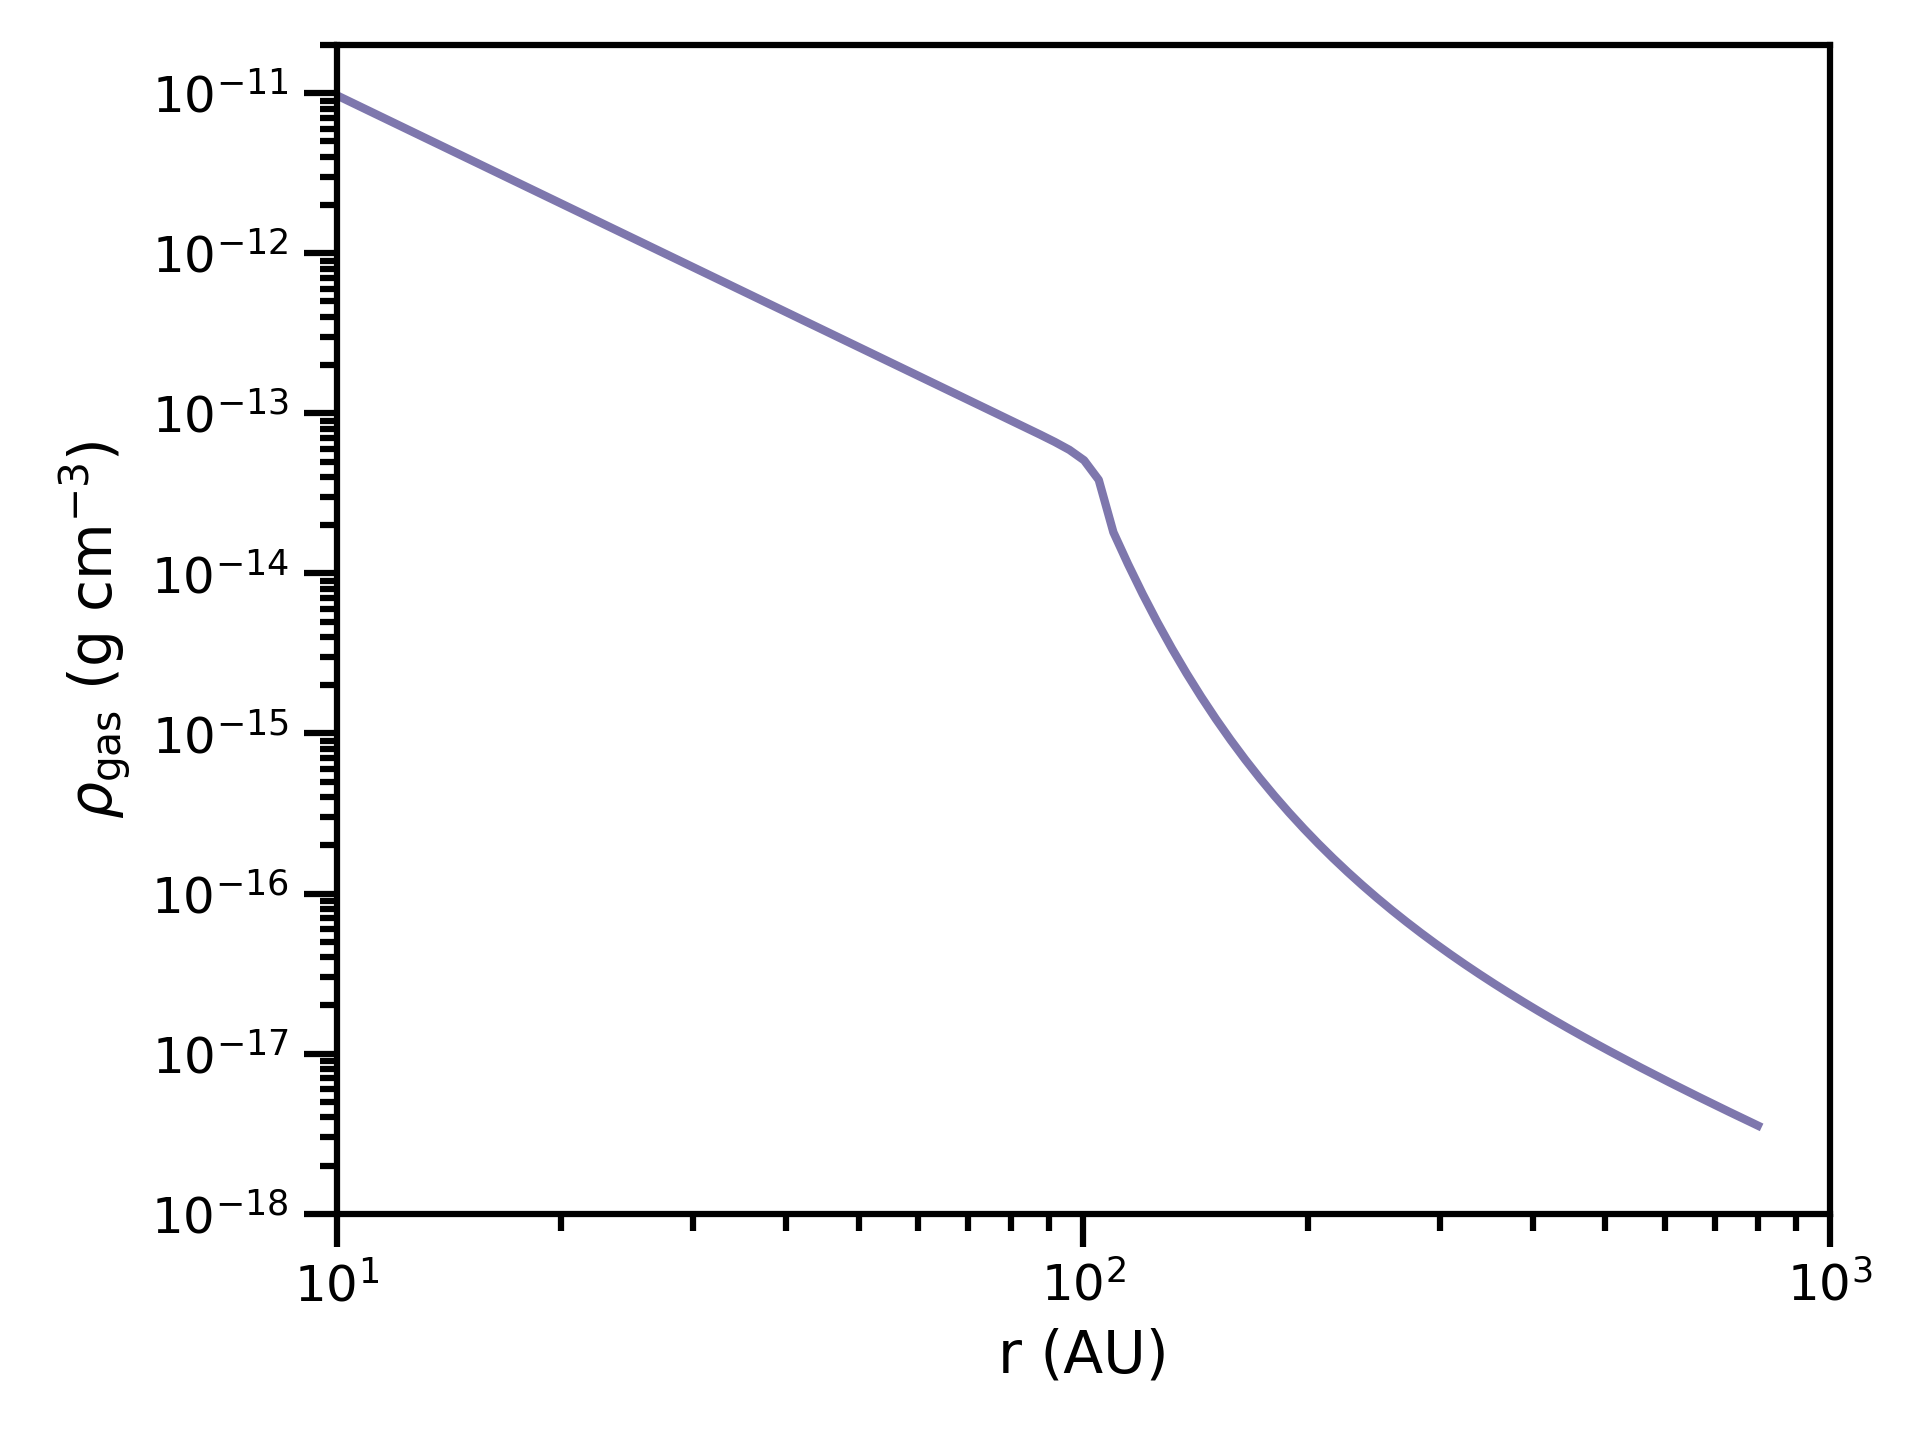
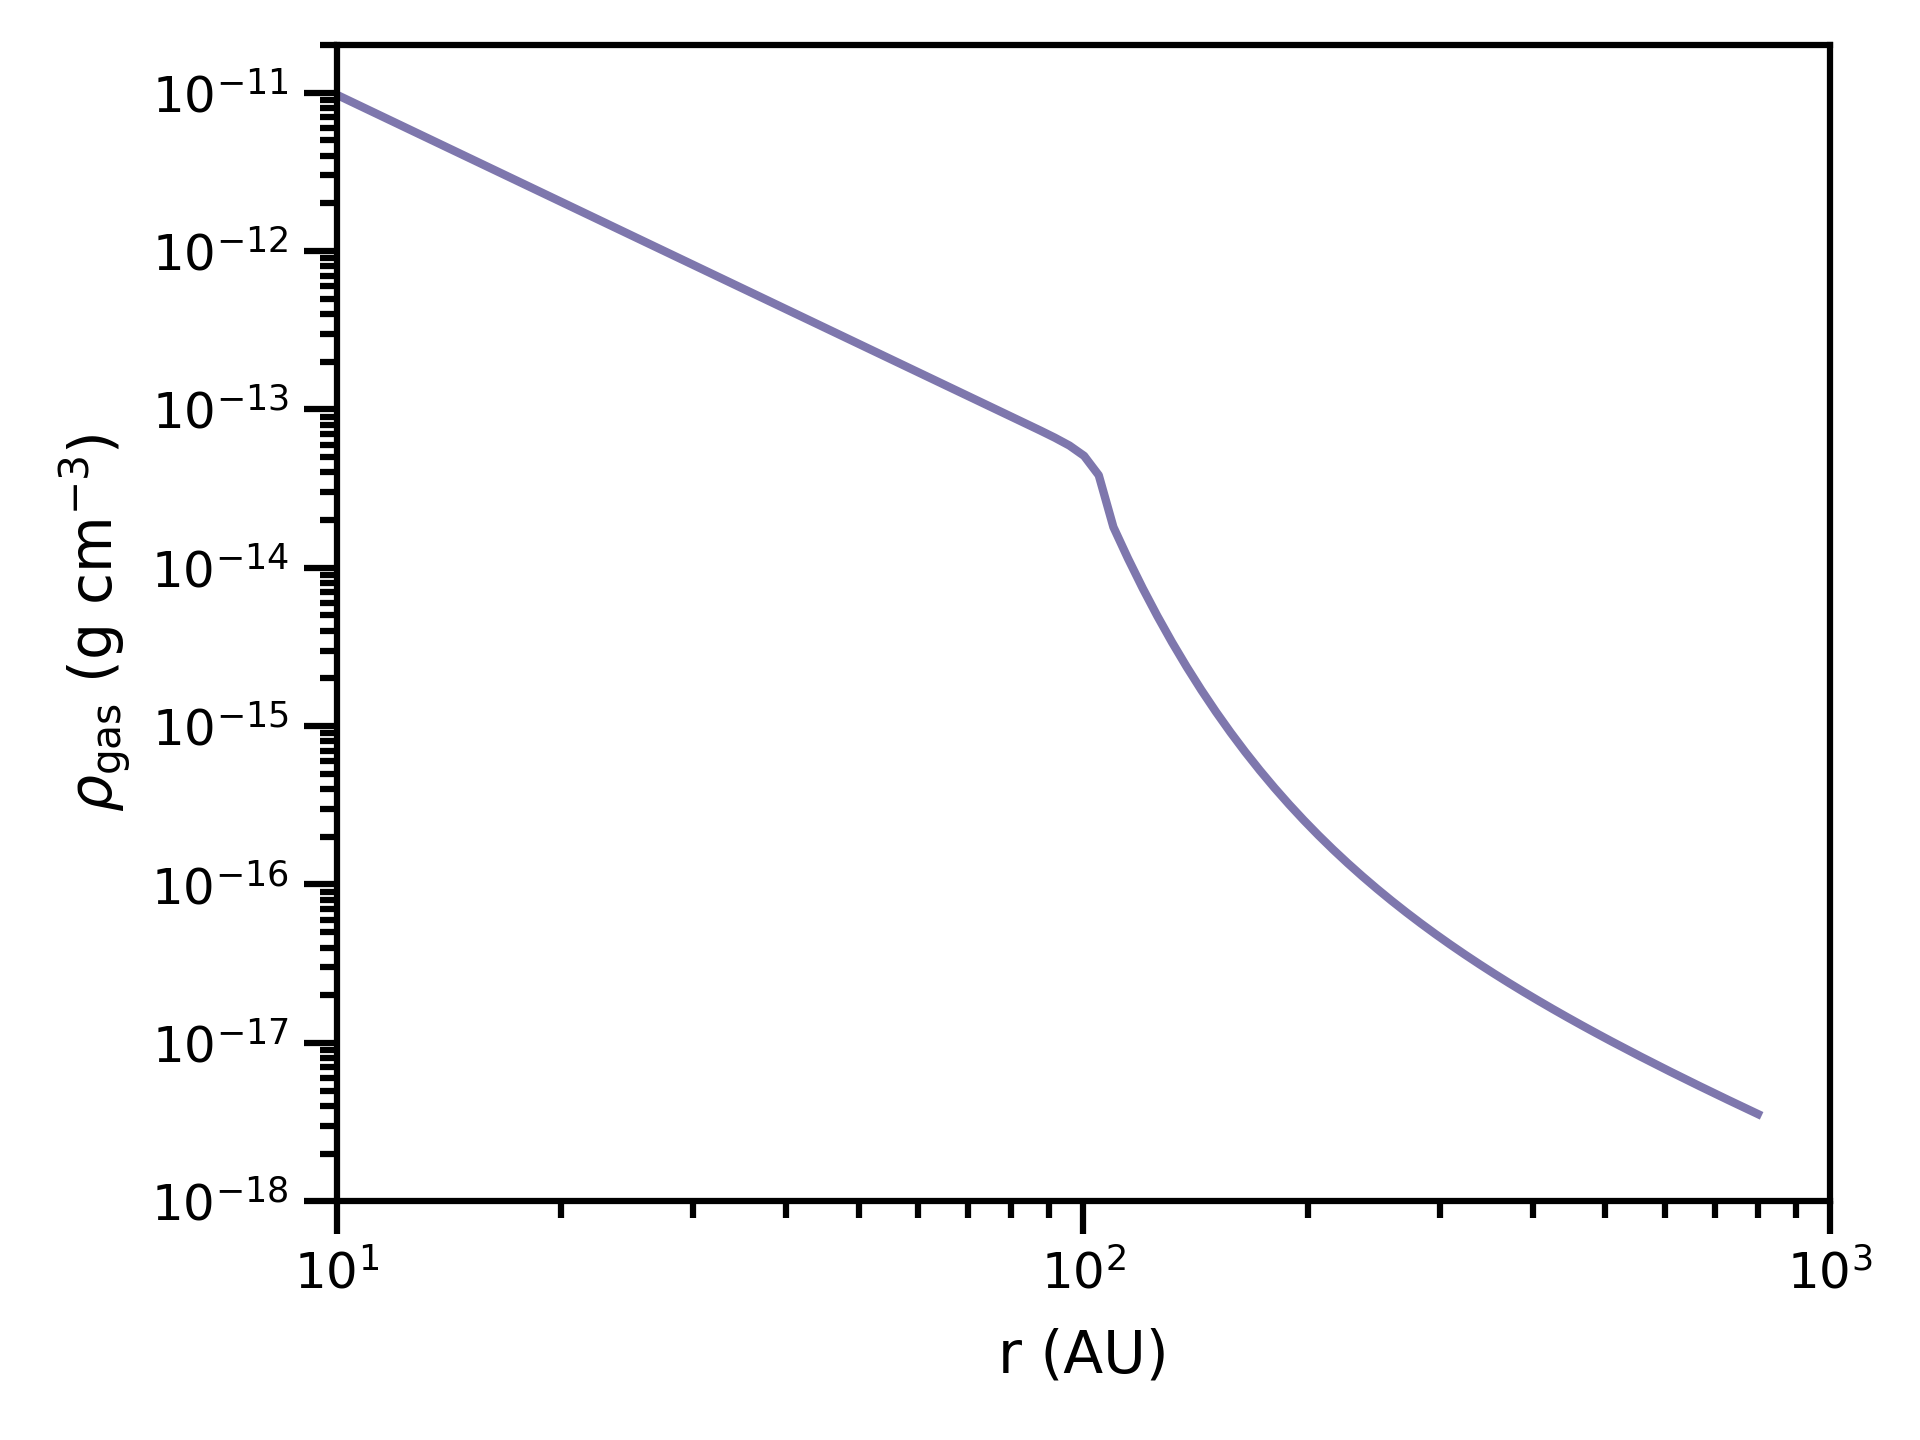
publication_day_5

diff --git a/docs/quick_start/index.md b/docs/quick_start/index.md
@@ -6,10 +6,10 @@
 import puffin_disk
 
 # Example input values
-m_star    = 1.0       # M_sun
+m_star    = 0.3       # M_sun
 r_d       = 100       # AU
 sigma_1au = 1000      # g cm^-2
-F_FUV     = 1e5       # G_0
+F_FUV     = 1e3       # G_0
 
 # Run PUFFIN
 model = puffin_disk.DiskModel1D(m_star, r_d, sigma_1au, F_FUV)                                        
@@ -36,13 +36,13 @@ plt.show()
 import puffin_disk
 
 # Example input values
-m_star    = 1.0       # M_sun
+m_star    = 0.3       # M_sun
 r_d       = 100       # AU
 sigma_1au = 1000      # g cm^-2
-F_FUV     = 1e5       # G_0
+F_FUV     = 1e3       # G_0
 
 # Run PUFFIN
-model = puffin_disk.DiskModel2D(m_star, r_d, sigma_1au, FFUV_G0)                                        
+model = puffin_disk.DiskModel2D(m_star, r_d, sigma_1au, FFUV_G0, gamma=3.0)                                        
 ```
 
 The model returns 1D arrays for radius and height, and a 2D density array. These can then be plotted:
@@ -57,3 +57,25 @@ rho_array = model[2]
 plt.contourf(r_array, z_array, np.log10(rho_array), cmap='Spectral_r', levels=np.arange(-20, -11, 0.2), extend='both')
 plt.show()                                       
 ```
+
+![2D PUFFIN model density structure.](/_static/fig_2d_structure.png)
+
+
+### Tweaking the Model
+
+Both the 1D and 2D PUFFIN models include several optional parameters that allow you to customize the numerical grid and physical behavior. These parameters are passed directly to the `DiskModel1D` and `DiskModel2D` constructors and can be directly adjusted.
+
+The available options are summarized below.
+
+| Parameter | Type | Description |
+|---------|------|-------------|
+| `n_points` | `int`, optional | Number of grid points used in the radial (and vertical, for 2D) directions. Default is **1000**. Higher resolution (≥1000) is recommended for accurate hydrostatic equilibrium solutions. |
+| `gridsize` | `float`, optional | Outer radius of the computational grid in AU. Default is `min(8 * r_d, 800)`. |
+| `m_dot` | `float`, optional | Mass-loss rate in M\_☉ yr⁻¹. If `None`, the value is interpolated from the FRIED grid. For 2D models, a factor of 2 is applied to account for geometry. |
+| `gamma` | `float`, optional | Exponential cutoff parameter for the surface density profile. If `None`, this is calculated using an internal scaling relation. |
+| `p` | `float`, optional | Power-law index controlling the bowl transition associated with the disk radius (`r_d`). Default is **0.2**. |
+| `q` | `float`, optional | Power-law index controlling the bowl transition associated with the external FUV field (`F_FUV`). Default is **0.4**. |
+| `N_ITER` | `int`, optional | Number of hydrostatic equilibrium iterations. Default is **20**. Increasing this may improve convergence at the cost of runtime. |
+
+In most cases, the default settings provide a good balance between accuracy and performance. Advanced users may wish to increase resolution or iteration count when exploring detailed vertical structure or testing convergence.
+

diff --git a/docs/user_guide/index.md b/docs/user_guide/index.md
@@ -1,3 +1,3 @@
 ## User Guide
 
-The full user guide, with step-by-step tutorials and example Python scripts, will be released in February 2026.
+The full user guide, with step-by-step tutorials and example Python scripts, will be available in February 2026.

diff --git a/docs/index.md b/docs/index.md
@@ -86,4 +86,5 @@ This project is licensed under the MIT License.
 quick_start/index
 physical_model/index
 user_guide/index
+faq/index
 ```

diff --git a/docs/faq/index.md b/docs/faq/index.md
@@ -1,0 +1,3 @@
+## Frequently Asked Questions
+
+FAQ will be available in February 2026.
